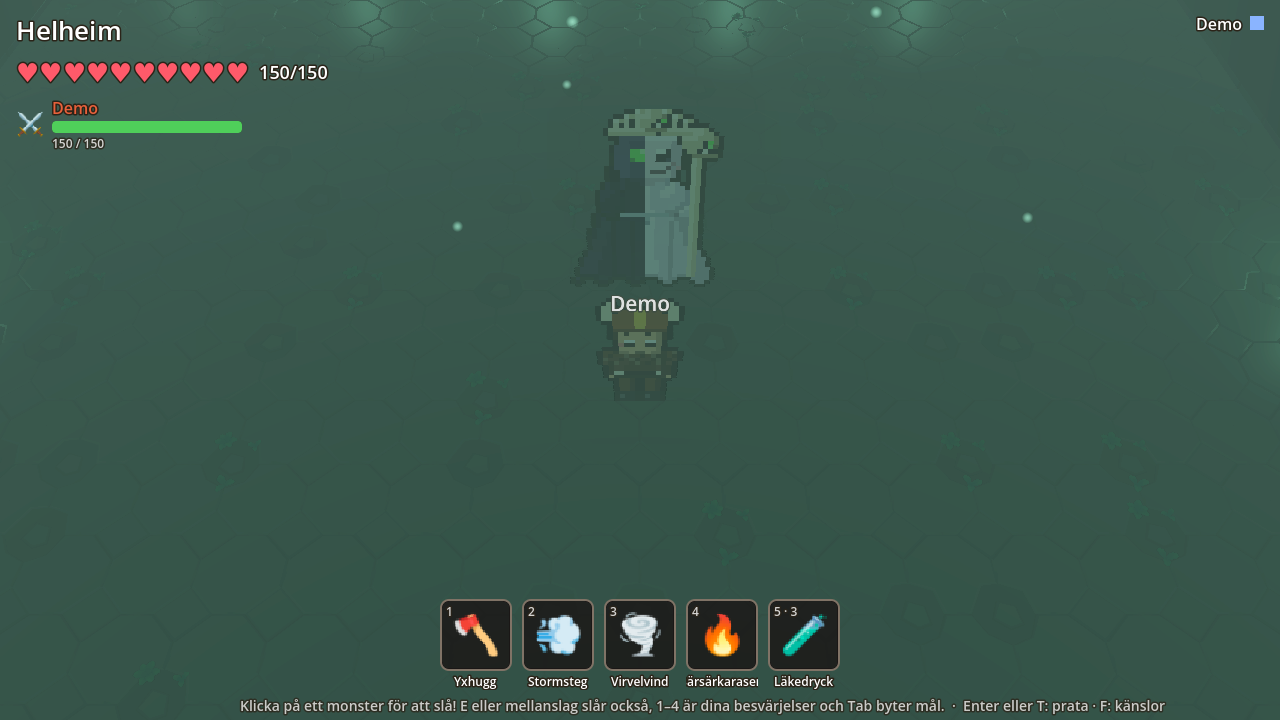
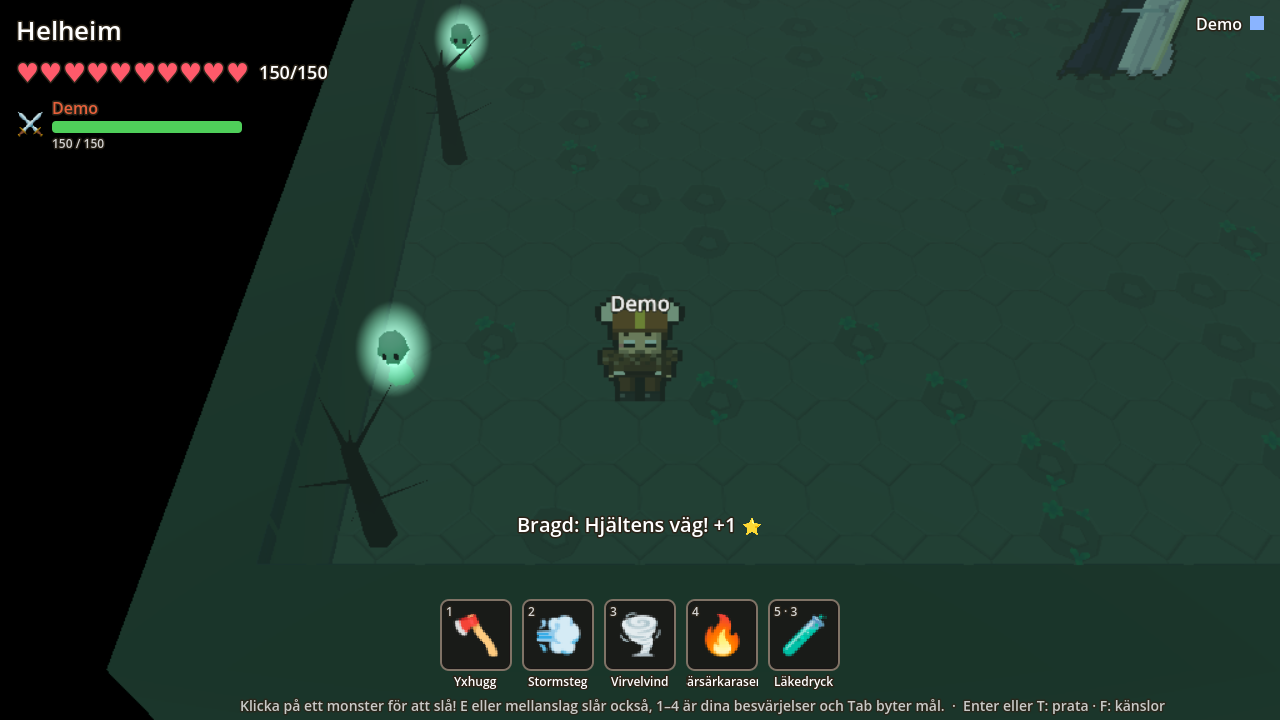
M6a review 7: Helheim's hall lightened (thinner fog, brighter air and wall tops, a darker void so the walls read); new pictures covering every move of each boss
Claude-Session: https://claude.ai/code/session_01KTh22qPPYJFNEk4wVjmv5b

diff --git a/DESIGN.md b/DESIGN.md
@@ -581,7 +581,7 @@ Milestone M6a of `PLAN.md`: the client draws any saga dungeon from the server's 
 - **The look table** (`scripts/dungeon_look.gd`, `DungeonLook`): one row per dungeon id (all nine have a stone tint and a torch colour; frost, surt and hel have their own air too, Draugkryptan's is the neutral one) with the stone tint, per-terrain floor multipliers (`ash`, `mud`, `snow`, `ice`, `forge`, `crypt`…), the torch colour, the ambient light's strength, the fog's density and colour, bloom, whether the boss hall's floor is KayKit's decorated tile and whether the floor has weedy tiles, and `motes`: what drifts through the air round the hero (snow in the castle, embers in the smithy, pale wisps in Helheim; Mellan and Hög only, a quarter of the preset's weather budget). The ambient colour itself stays data (`DUNGEONS[id].ambient` in `game.json`). The dungeon view reads only this table: `resolve(id, data)` finds the row by id, falls back to the `wall` index (a run's zones and the boss's map borrow a look that way, with `plain_air` so their own weather rules the fog), and to a neutral grey stone with warm torches for an id it does not know, so a dungeon the client has no row for still draws. Draugkryptan's row holds the values the view had before the table; a picture before and after differs only by torch flicker.
 - **Sprites.** `pnpm godot:sprites` takes the dungeon ids (`draug,frost,surt,hel` by default) and exports every creature `speciesOf` lists: the packs, the mid-boss and boss and the helpers they call, and (new) the ice block a freeze leaves. All 21 are the existing pixel art of `packages/art/src/sagaanimals.ts`; nothing was drawn for this. `ART.md` records the table and the sprite arguments; `LICENSES.md` needed no new line (the art is the project's own).
 - **Decor** was already there: the zones of M5c already drew the decor kinds of every dungeon in code (`zone_props.gd`), so the three dungeons' ice crystals, frozen pillars, snowdrifts, anvils, braziers, lava cracks, gravestones, skull piles, ghost-lights and dead trees are the same models.
-- **Fixtures and demos.** `pnpm godot:fixture` writes `frost.json`, `surt.json` and `hel.json` beside `draug.json` (the draug file is byte for byte unchanged). `--demo=<id>` draws them; `--fight` on any of them plays `DemoBosses` (`scripts/demo_bosses.gd`, a `DemoFight`): each move of the mid-boss and the boss, from `game.json`, the way `sagasim.ts` sends it: the cast (name, warning time, the blue stop-it mark when `interrupt`) and `cast_<move>`, the marks (a cone, a circle, a strip, a circle under the friend and the extra ones for rain and pools, the circle where a charge or an ice prison will land), the landing, and what it leaves: the burning ground (`until`), the ice block with the friend frozen in it and broken again, the summoned helpers, the pull as a `warp`, the boss landing where the charge was marked; and the phase shouts between. `--once` leaves when the show has played, `--boss-move=<species>:<move>[:after]` holds one move 70 % ready (or what it leaves) for a picture. `export-data.mts` adds `count`, `add` and `phase` to the bosses' moves.
+- **Fixtures and demos.** `pnpm godot:fixture` writes `frost.json`, `surt.json` and `hel.json` beside `draug.json` (the draug file is byte for byte unchanged). `--demo=<id>` draws them; `--fight` on any of them plays `DemoBosses` (`scripts/demo_bosses.gd`, a `DemoFight`): each move of the mid-boss and the boss, from `game.json`, the way `sagasim.ts` sends it: the cast (name, warning time, the blue stop-it mark when `interrupt`) and `cast_<move>`, the marks (a cone, a circle, a strip, a circle under the friend and the extra ones for rain and pools, the circle where a charge or an ice prison will land), the landing, and what it leaves: the burning ground (`until`), the ice block with the friend frozen in it and broken again, the summoned helpers, the pull as a `warp`, the boss landing where the charge was marked; and the phase shouts between. `--once` leaves when the show has played (at 3x speed, and it checks that every mark it fed is in the fx view after the cast and gone after the landing, and prints `bosses: ok`), `--boss-move=<species>:<move>[:after]` holds one move 70 % ready (or what it leaves) for a picture. `export-data.mts` adds `count`, `add` and `phase` to the bosses' moves.
 - **The mechanics on screen.** Isbjörnen Kall's *Isrusning* and Garm's *Helbett* (`charge`: a circle under one friend, then the boss lands there), Rimtursen's *Frostandedräkt* (a cone), *Istappar* (circles under everyone and three more), *Isfängelse* (`freeze`: a small mark, then a friend in a block of ice with the pale "Du är infrusen!" box until someone hits it), *Snöstorm* (a stoppable `nova`), Smeden's *Städslaget* (`slam`) and *Glödande slagg* (`pools`: circles that stay as burning ground), Surt's *Eldsvärdet*, *Lavapölar* and *Muspels vrede*, Garm's *Yla!* (`summon`: a cast bar and two hounds in a ring of smoke), Hel's *Dödens famn* (`pull`: a violet whirl, then everyone warped in and the *Helskriket* circle that follows) and *Gravkyla*. The fx code of M3b already drew every shape and move generically; M6a added the check that it does, and a pale web bolt for Helheim's bone spider (`mob_benspindel`).
 - **Bots and CI.** `bot.gd` already took `--dungeon=<id>`; `bot-check.mts` takes `BOT_ONLY=dungeon BOT_DUNGEON=frost|surt|hel` (just the fighter pair, about 25 s each with `BOT_PACKS=2`), and the `export` job runs it for all three and plays the three bosses' shows headless in parallel (about 40 s; it fails on a script error, a leak, a show that does not end, or a boss move that never casts). The pictures (the start room and the boss hall of each, and each move's marks) are the manual `pictures` job's: `docs/m6a-*.png` and the `farm-screenshots` artifact's `dungeons/`.
 - **Not done, on purpose.** The bosses are not fought to the end through the client by a bot (the run bot's `--full` does it for a run's boss, locally); dvarg, orm, alv, fenrir and loke have a look row and no more (no creature sheets, no fixtures, no boss show): M6b and M6c. The first four have no slippery floor (the server has none; the intro text only says so).
